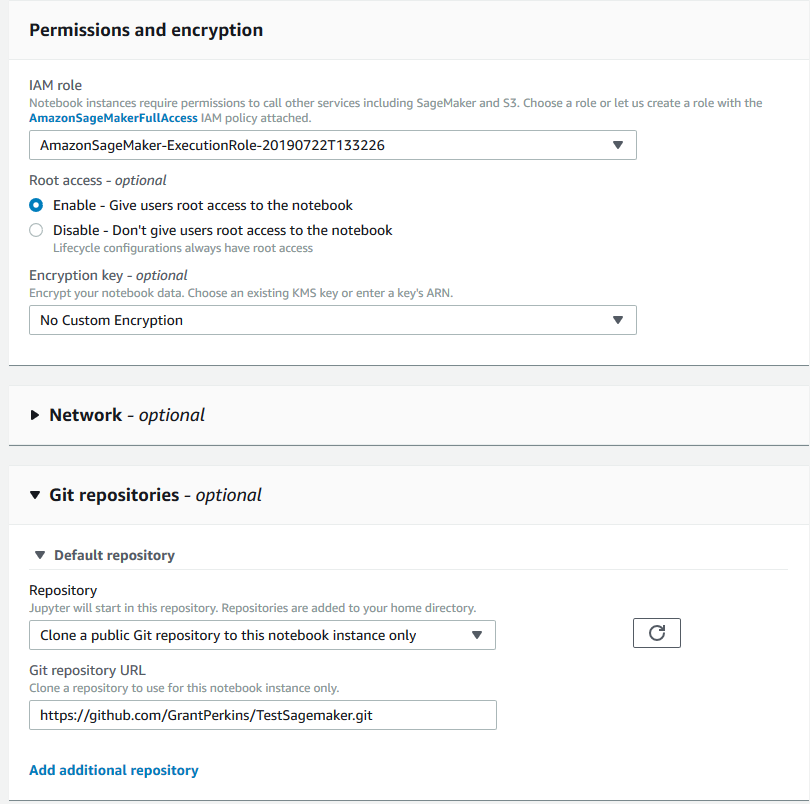
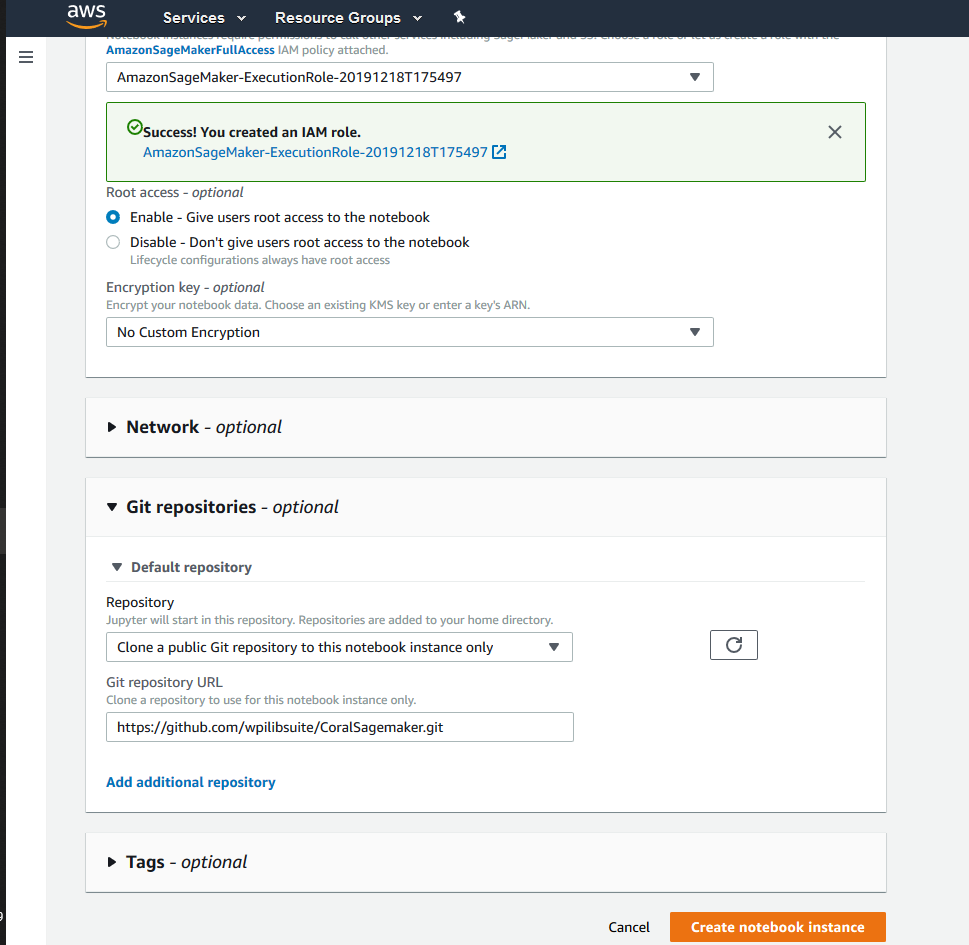
Fix outdated docs

diff --git a/docs/training.md b/docs/training.md
@@ -10,20 +10,18 @@ Training on AWS with the provided dataset should take less than 15 minutes and c
 #### Training with AWS
 
 1. Search "SageMaker" in the "Find Services" field, ![sage](search-sagemaker.png) and create a new notebook instance ![instance](create-instance.png) ![search](create-notebook.png) The notebook instance should have the following characteristics:
- - IAM Permissions: Click `Create a new role` inside of the dropdown. It should have access to ANY S3 bucket.
- - GitHub repository: open the panel, then click on where it says `None`. Click `Clone a public repository to this notebook instance only`, then paste in this link: [https://github.com/wpilibsuite/CoralSagemaker.git](https://github.com/wpilibsuite/CoralSagemaker.git) ![newnotebook](new-notebook.png)
+ ![newnotebook](new-notebook.png)
+ - Notebook instance name: Give your notebook a name
+ - IAM Role: Click `Create a new role` inside of the dropdown. Let it have access to Any S3 bucket.
+ - Git repositories: open the panel, then click on where it says `None`. Click `Clone a public Git repository to this notebook instance only`, then paste in this link: [https://github.com/wpilibsuite/CoralSagemaker.git](https://github.com/wpilibsuite/CoralSagemaker.git)
  - Create the instance
-2. Open the notebook using the JupyterLab option. ![jupyterlab](open-jupyter.png)
-3. Open `coral.ipynb`, found on the left side of the screen. We've noticed that the first time a notebook is opened, it doesn't work correctly. To fix this, follow these steps:
-   - Reload the tab. When prompted, select the kernel is `conda_tensorflow_p36`
-   - The tab will not finish reloading. Close the tab.
-   - Open the notebook in JupyterLab once again. It will work this time.
-4. Run the first code block, which builds and deploys the necessary dependencies to an ECR image, used by the training instance.
-5. Run the second code block, which gets the execution role, used for communication between computers.
-6. Run the third code block, which gets the address of the ECR image made in the first step.
-7. If you created your own dataset by following the [Gathering](gathering.md) steps, then change the fourth code block to use your data. You must replace `s3://wpilib` with `s3://<<your-bucket-name>>`. As a reminder, there should be only one `.tar` in your bucket.
-8. Run the fourth code block. This block will take roughly 45 minutes to train your model.
-9. Remember to stop the notebook after you are done running it to stop getting charged
+2. After several minutes, the notebook will be "In Serivce". Open the notebook using the JupyterLab option. ![jupyterlab](open-jupyter.png)
+3. Open the `CoralSagemaker` folder, and then `coral.ipynb`, found on the left side of the screen. We've noticed that the first time a notebook is opened, it doesn't work correctly. To fix this, follow these steps:
+   - Reload the tab. Dismiss the error. When prompted, select the kernel `conda_amazonei_tensorflow_p36`
+   - If the tab does not finish reloading, close the tab, and open the notebook in JupyterLab once again. It will work this time.
+7. If you created your own dataset by following the [Gathering](gathering.md) steps, then change the last line of the code to use your data. You must replace `estimator.fit(s3://wpilib)` with `estimator.fit(s3://<<your-bucket-name>>)`. As a reminder, there should be only one `.tar` in your bucket.
+8. Run the code block. This block will take roughly 15 minutes or less to train your model.
+9. Remember to stop the notebook after you are done running it to stop getting charged.
 10. Go to the SageMaker main page in the AWS console. Open Training Jobs. Open the most recent job.
 11. Once the model is done training (the job says `Completed`), scroll to the bottom inside the training job. Click on the link in the `Output` section, where it says `S3 model artifact`.
 12. Click on `model.tar.gz`. Click on `Download`.
